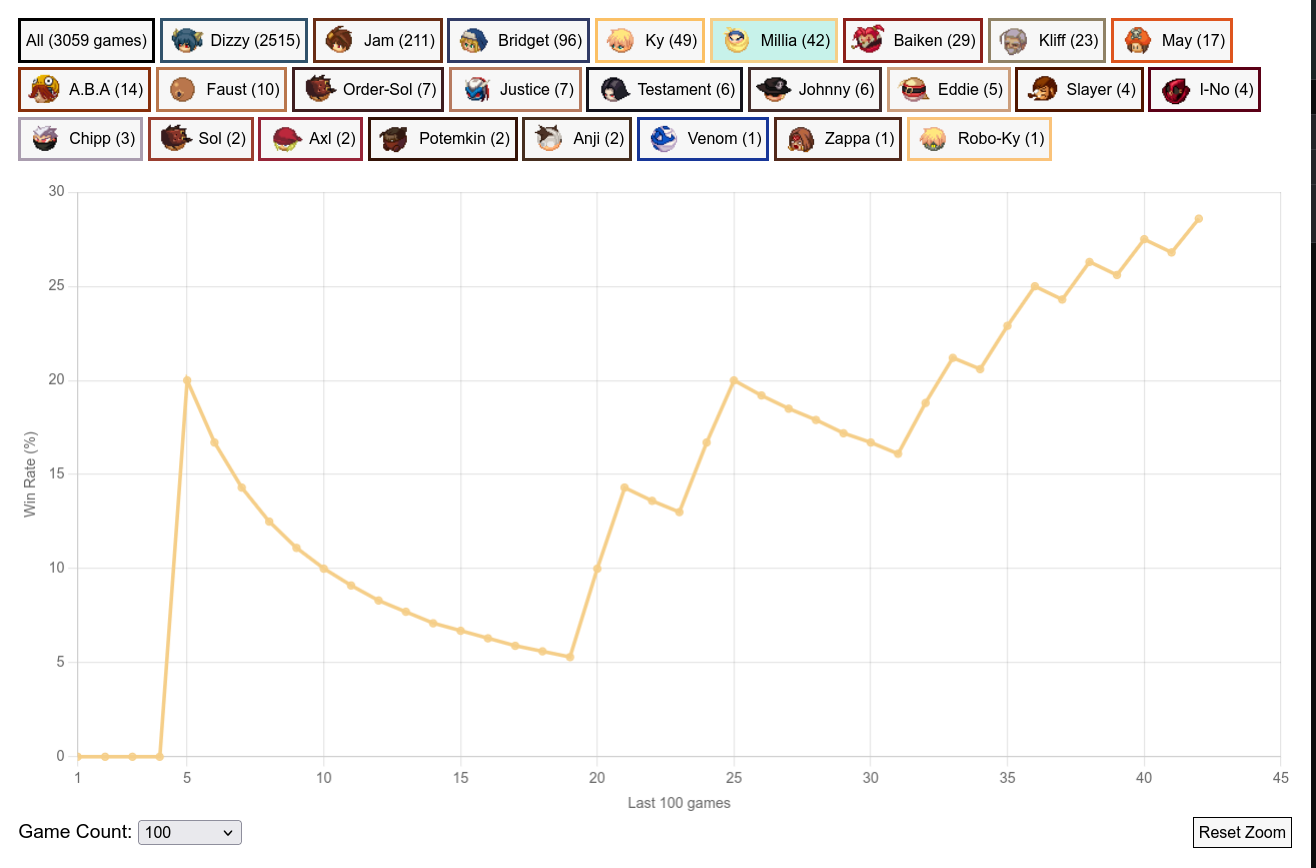
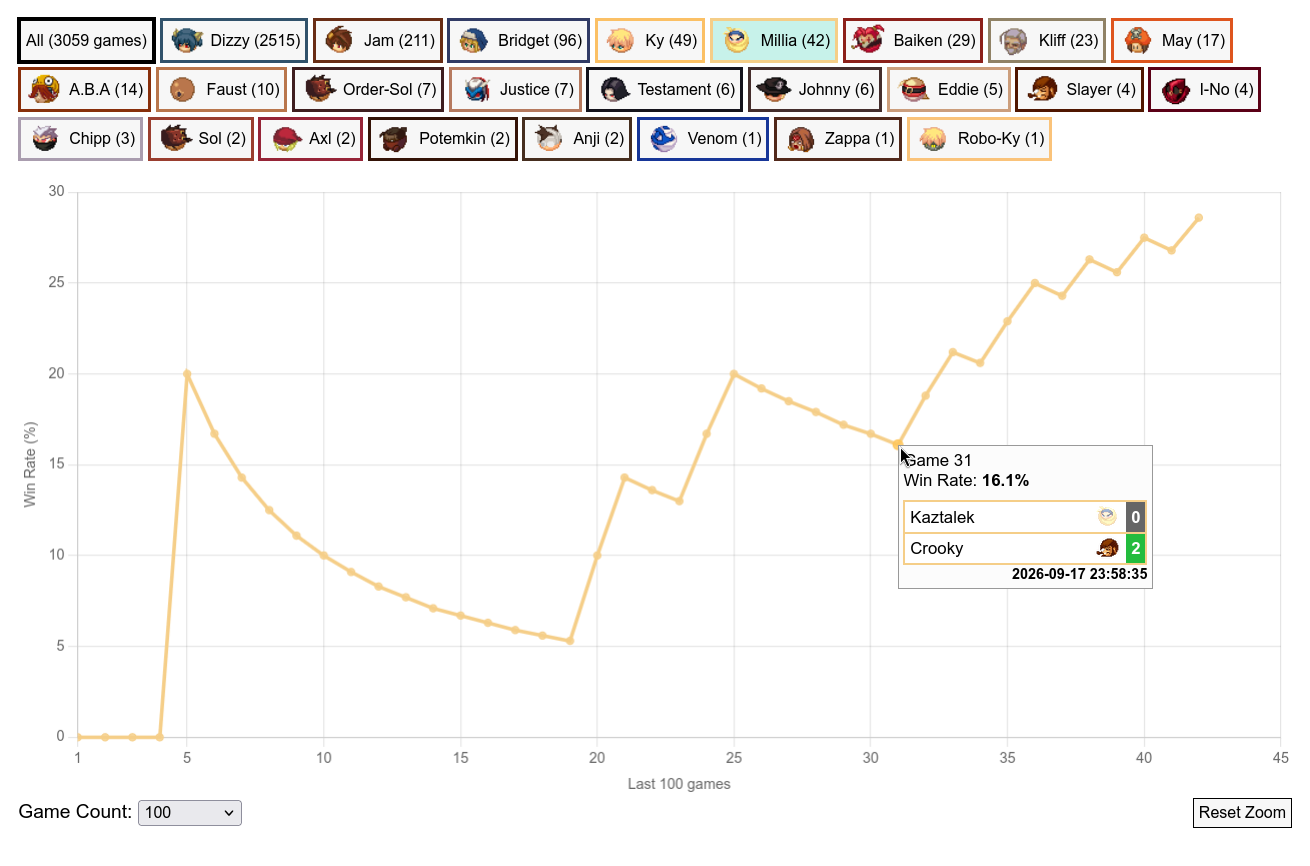
custom chart tooltips

diff --git a/src/html/main.js b/src/html/main.js
@@ -173,13 +173,105 @@ createApp({
 							display: false
 						},
 						tooltip: {
-							callbacks: {
-								title: (items) =>
-									moment(items[0].dataset.data[items[0].dataIndex].date).format(
-										'YYYY-MM-DD HH:mm:ss'
-									),
-								label: (context) =>
-									`${CHARACTERS[context.raw.charCode]?.name ?? context.raw.charCode}: ${context.formattedValue}%`
+							enabled: false,
+							external: (context) => {
+								// custom tooltip based on example from Chart.js documentation https://www.chartjs.org/docs/latest/configuration/tooltip.html#external-custom-tooltips
+								let tooltipEl = document.getElementById(
+									'win-rate-chart-tooltip'
+								);
+
+								if (!tooltipEl) {
+									tooltipEl = document.createElement('div');
+									tooltipEl.id = 'win-rate-chart-tooltip';
+									document.body.appendChild(tooltipEl);
+								}
+
+								const tooltipModel = context.tooltip;
+								// hide if no tooltip
+								if (tooltipModel.opacity === 0) {
+									tooltipEl.style.opacity = 0;
+									return;
+								}
+
+								if (tooltipModel.body) {
+									const {x: xVal, y: yVal} =
+										context.tooltip.dataPoints[0].parsed;
+									let innerHtml = `
+									<div style="display: flex; flex-direction: column; gap: 8px">
+										<div>
+											<div>Game ${xVal}</div>
+											<div>Win Rate: <b>${yVal}%</b></div>
+										</div>
+									`;
+
+									context.tooltip.dataPoints.forEach((dataPoint, i) => {
+										const renderResultsRow = (
+											name,
+											char,
+											roundsWon,
+											didWin,
+											isP1 = false
+										) => `
+										<div style="display: flex; align-items: center; gap: 4px; width: 200px; background-color: #fff; border: 2px solid ${dataPoint.dataset.borderColor}; ${isP1 ? 'border-bottom: 0;' : ''}">
+											<span style="flex-grow: 1; padding: 4px; white-space: nowrap; text-overflow: ellipsis; overflow: hidden">${name}</span>
+											<img src="../assets/icons/${char.code}.png" style="height: 24px; opacity: ${didWin ? 1 : 0.5}" />
+											<span style="font-weight: bold; background-color: ${didWin ? '#23bc3d' : '#666'}; color: #fff; padding: 4px">${roundsWon}</span>
+										</div>
+										`;
+
+										const {
+											date,
+											p1Char,
+											p1Name,
+											p1RoundsWon,
+											p2Char,
+											p2Name,
+											p2RoundsWon,
+											winner
+										} = dataPoint.raw;
+
+										innerHtml = `${innerHtml}
+										<div style="display: flex; flex-direction: column">
+											${renderResultsRow(p1Name, p1Char, p1RoundsWon, winner === 'P1', true)}
+											${renderResultsRow(p2Name, p2Char, p2RoundsWon, winner === 'P2')}
+											<div style="align-self: flex-end; font-size: 12px; font-weight: bold">${moment(date).format('YYYY-MM-DD HH:mm:ss')}</div>
+										</div>`;
+									});
+
+									tooltipEl.innerHTML = `${innerHtml}</div>`;
+								}
+
+								const canvasRect = context.chart.canvas.getBoundingClientRect();
+								let tooltipWidth = tooltipEl.offsetWidth;
+								// on initial load, the tooltip width seems to be overly large before it's rendered
+								// lazy fix is to just ignore tooltip width in this case, since it'll fix itself once rendered
+								if (tooltipWidth > 1000) {
+									tooltipWidth = 0;
+								}
+								let leftPos =
+									canvasRect.left + window.pageXOffset + tooltipModel.caretX;
+								// position tooltip to the left if it would overflow canvas to the right
+								if (leftPos + tooltipWidth > canvasRect.right) {
+									leftPos -= tooltipWidth;
+								}
+								let topPos =
+									canvasRect.top + window.pageYOffset + tooltipModel.caretY;
+								// position tooltip to the top if it's below the midpoint of the chart
+								if (canvasRect.height / 2 < tooltipModel.caretY) {
+									topPos -= tooltipEl.offsetHeight;
+								}
+								Object.assign(tooltipEl.style, {
+									opacity: 1,
+									position: 'absolute',
+									fontSize: '14px',
+									left: `${leftPos}px`,
+									top: `${topPos}px`,
+									padding: '4px',
+									pointerEvents: 'none',
+									backgroundColor: '#fcfcfc',
+									color: '#000',
+									border: '1px solid #999'
+								});
 							}
 						},
 						zoom: {

diff --git a/src/reports.ts b/src/reports.ts
@@ -12,9 +12,8 @@ const CHAR_DIST_REPORT_ENABLED = true;
 const OPP_DIST_REPORT_ENABLED = true;
 const H2H_REPORT_ENABLED = !!OPP_STEAM_IDS;
 
-type allReplayDataType = {
+type allReplayDataType = ggrReplayType & {
 	charCode: (typeof CHARACTERS)[number]['code'];
-	date: Date;
 	didWin: boolean;
 	oppCharCode: (typeof CHARACTERS)[number]['code'];
 };
@@ -125,8 +124,8 @@ export const generateReports = async (replays: ggrReplayType[]) => {
 
 		if (HTML_REPORT_ENABLED) {
 			allData.push({
+				...replay,
 				charCode,
-				date: replay.date,
 				didWin,
 				oppCharCode
 			});
